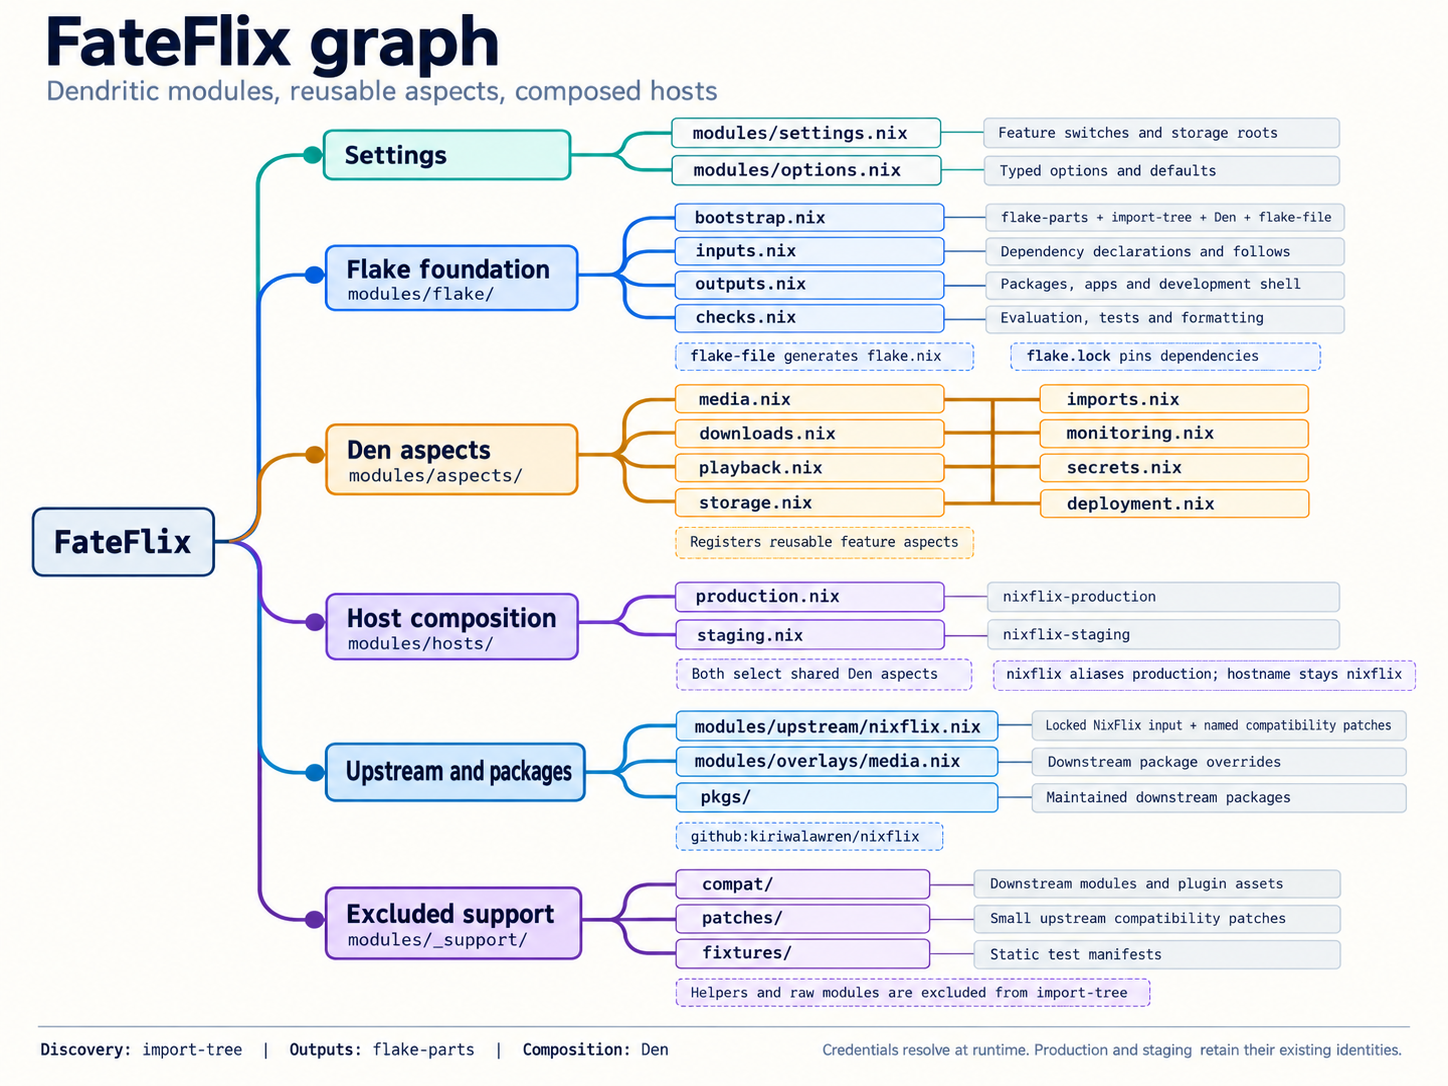
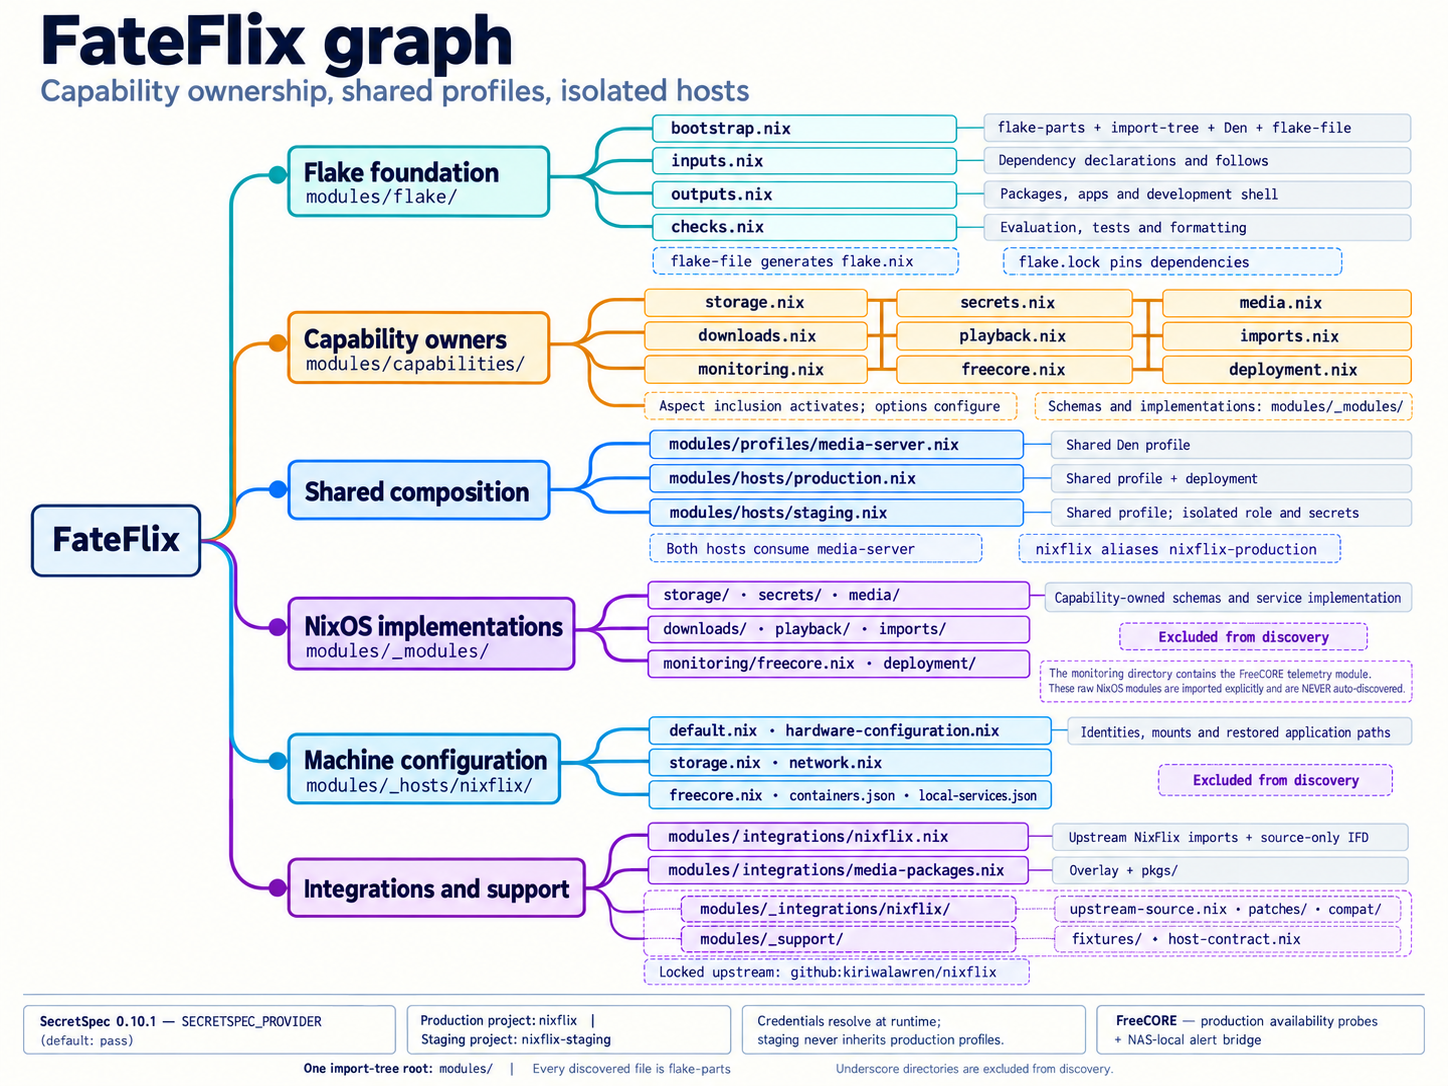
Update FateFlix dendritic architecture graph
Show capability owners, the shared media-server profile, isolated hosts
and the explicit FreeCORE telemetry module. Distinguish discovered
flake-parts modules from explicitly imported NixOS implementations.

Embed the generated image in the architecture guide and retain the
composition diagram as an expandable text version. Record the generation
prompt alongside the image. Formatting and documentation builds pass
in the isolated NixFlix VM checkout.

diff --git a/docs/fateflix.md b/docs/fateflix.md
@@ -5,6 +5,11 @@ files under `modules/` are flake-parts modules. import-tree excludes underscore
 paths: NixOS implementations live in `modules/_modules/`, machine configuration
 in `modules/_hosts/`, and upstream adaptation in `modules/_integrations/`.
 
+![FateFlix dendritic architecture: capability owners, shared profiles, isolated hosts and explicit FreeCORE telemetry](fateflix-graph.png)
+
+<details markdown="1">
+<summary>Composition relationships as a text diagram</summary>
+
 ```mermaid
 flowchart TD
   F[flake.nix: one import-tree root] --> C[capabilities: Den registration]
@@ -23,6 +28,8 @@ flowchart TD
   T --> N[NAS-local alert feed and private runtime configuration]
   R --> V[private credential files: persistent runtime paths]
 ```
+
+</details>
 
 Each capability owns its schema, implementation and Den registration. Both hosts
 include `den.aspects.media-server`; production additionally includes deployment.
